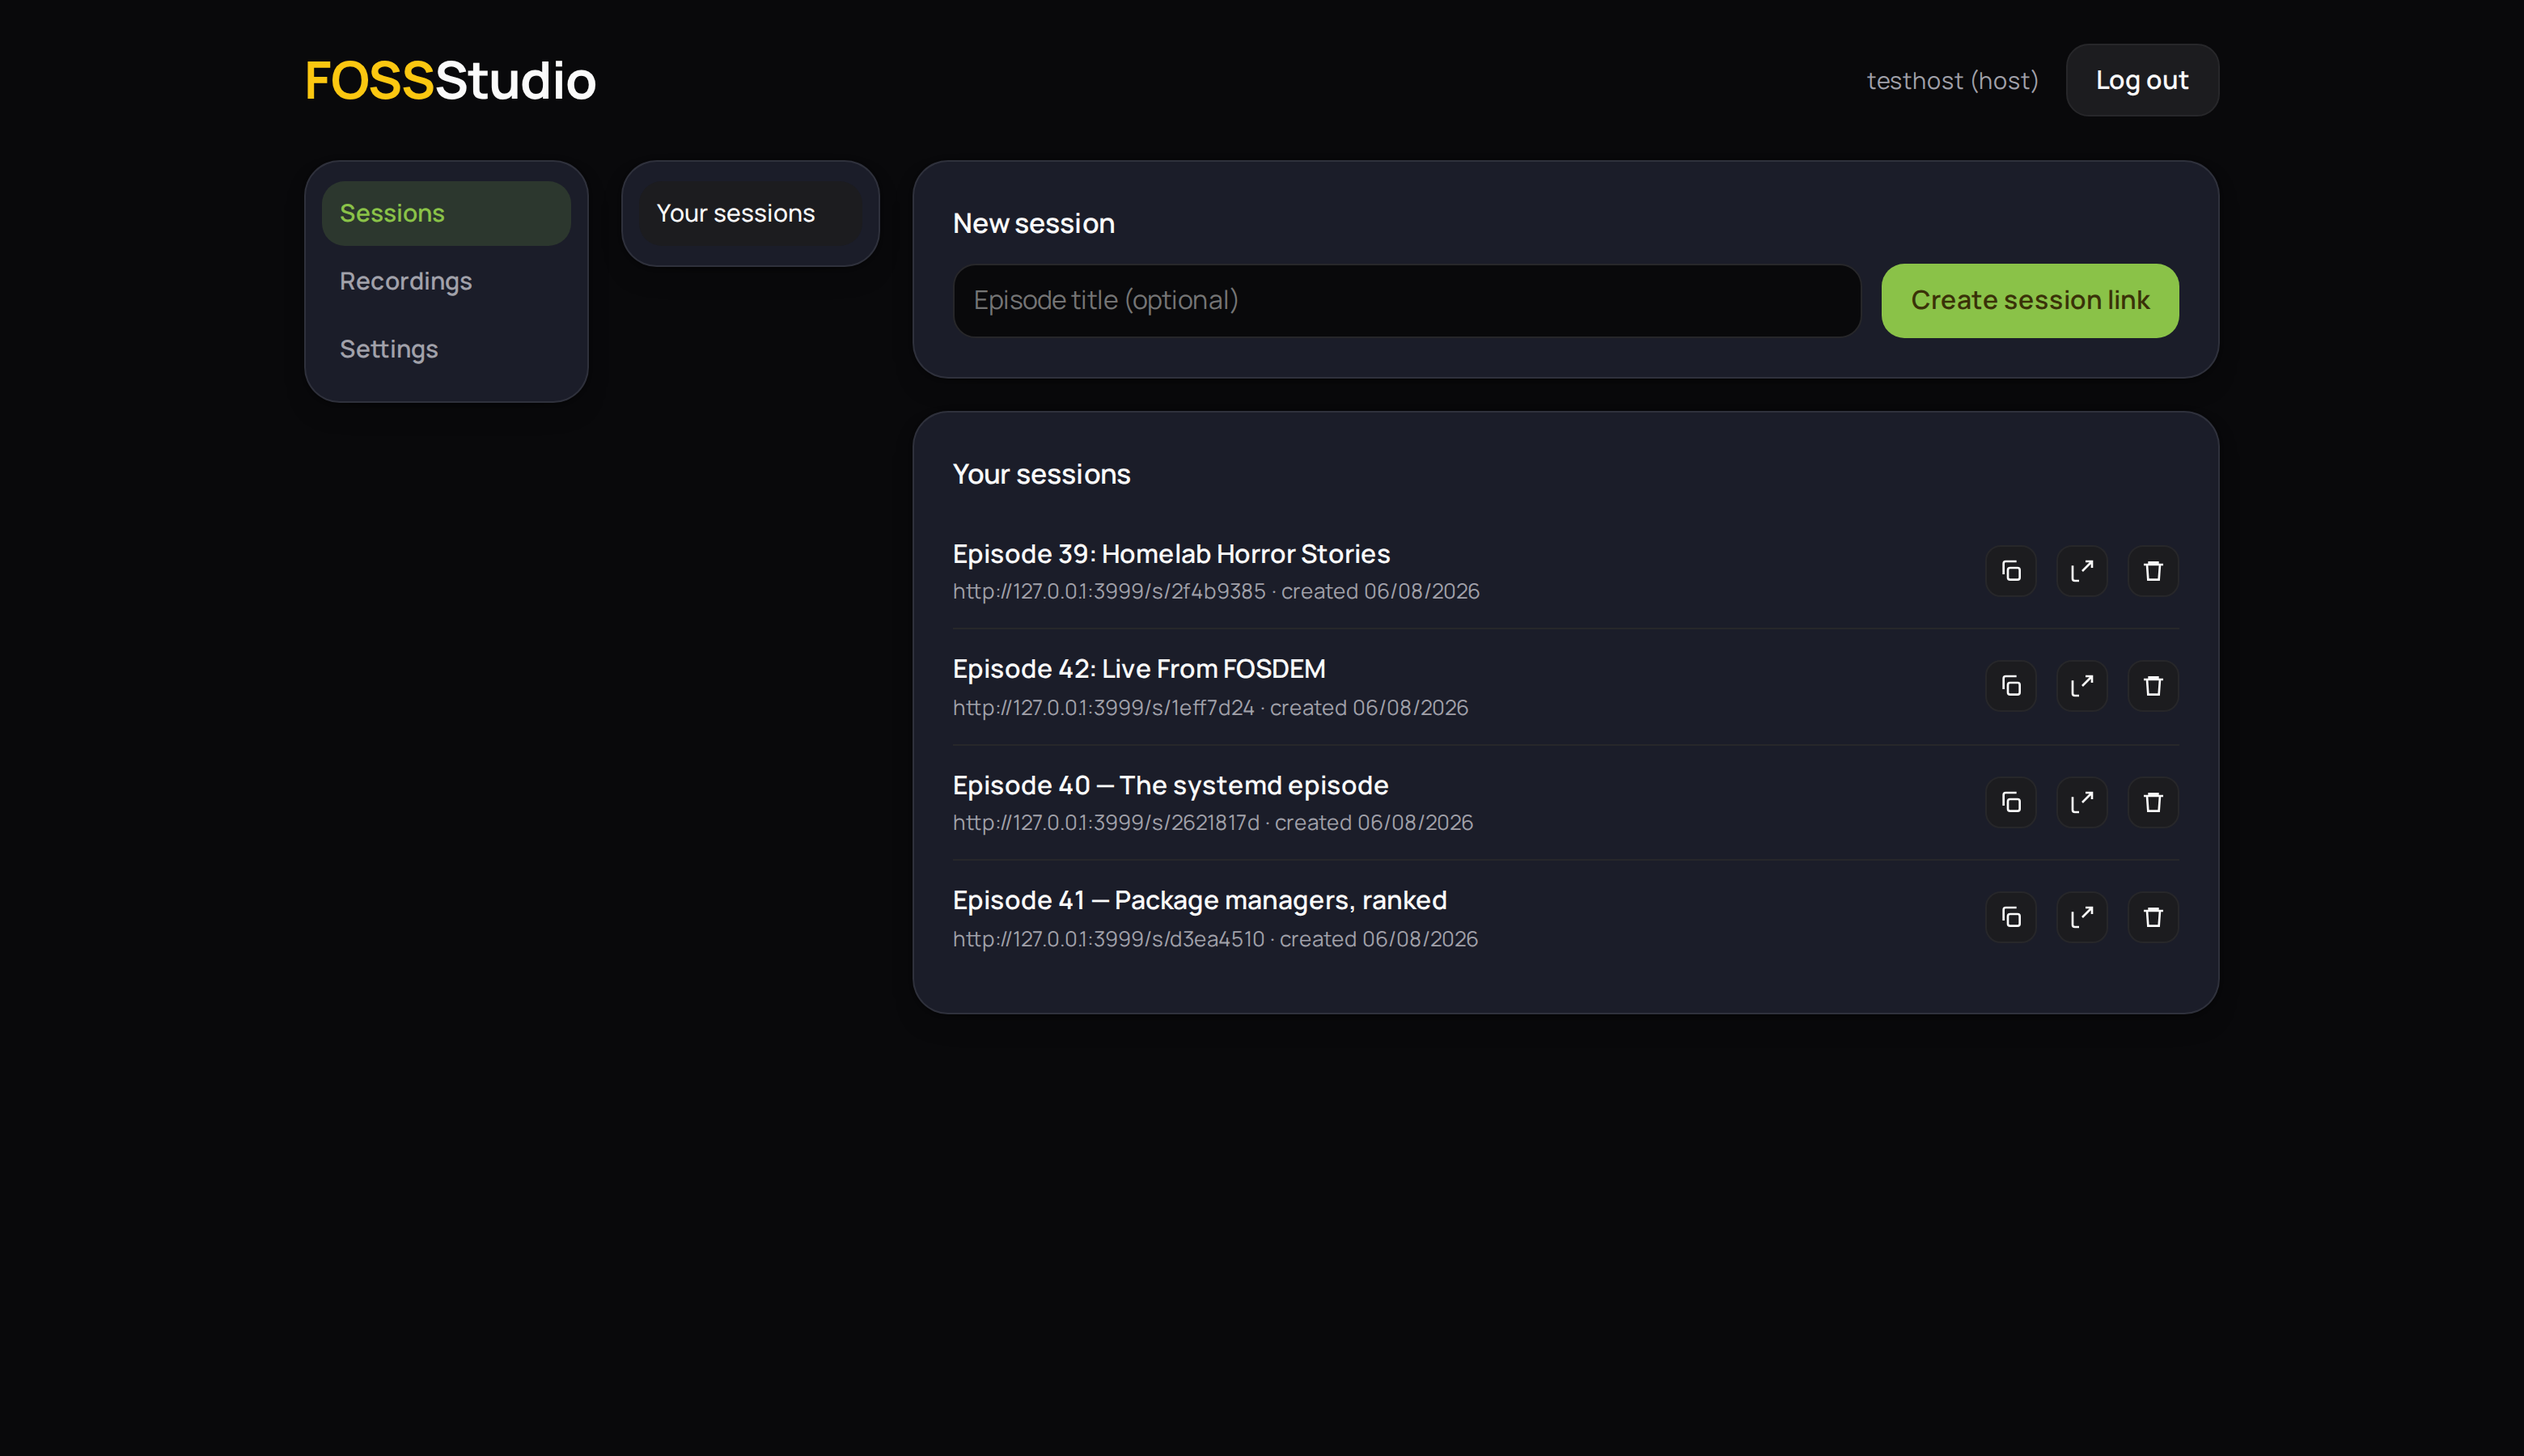
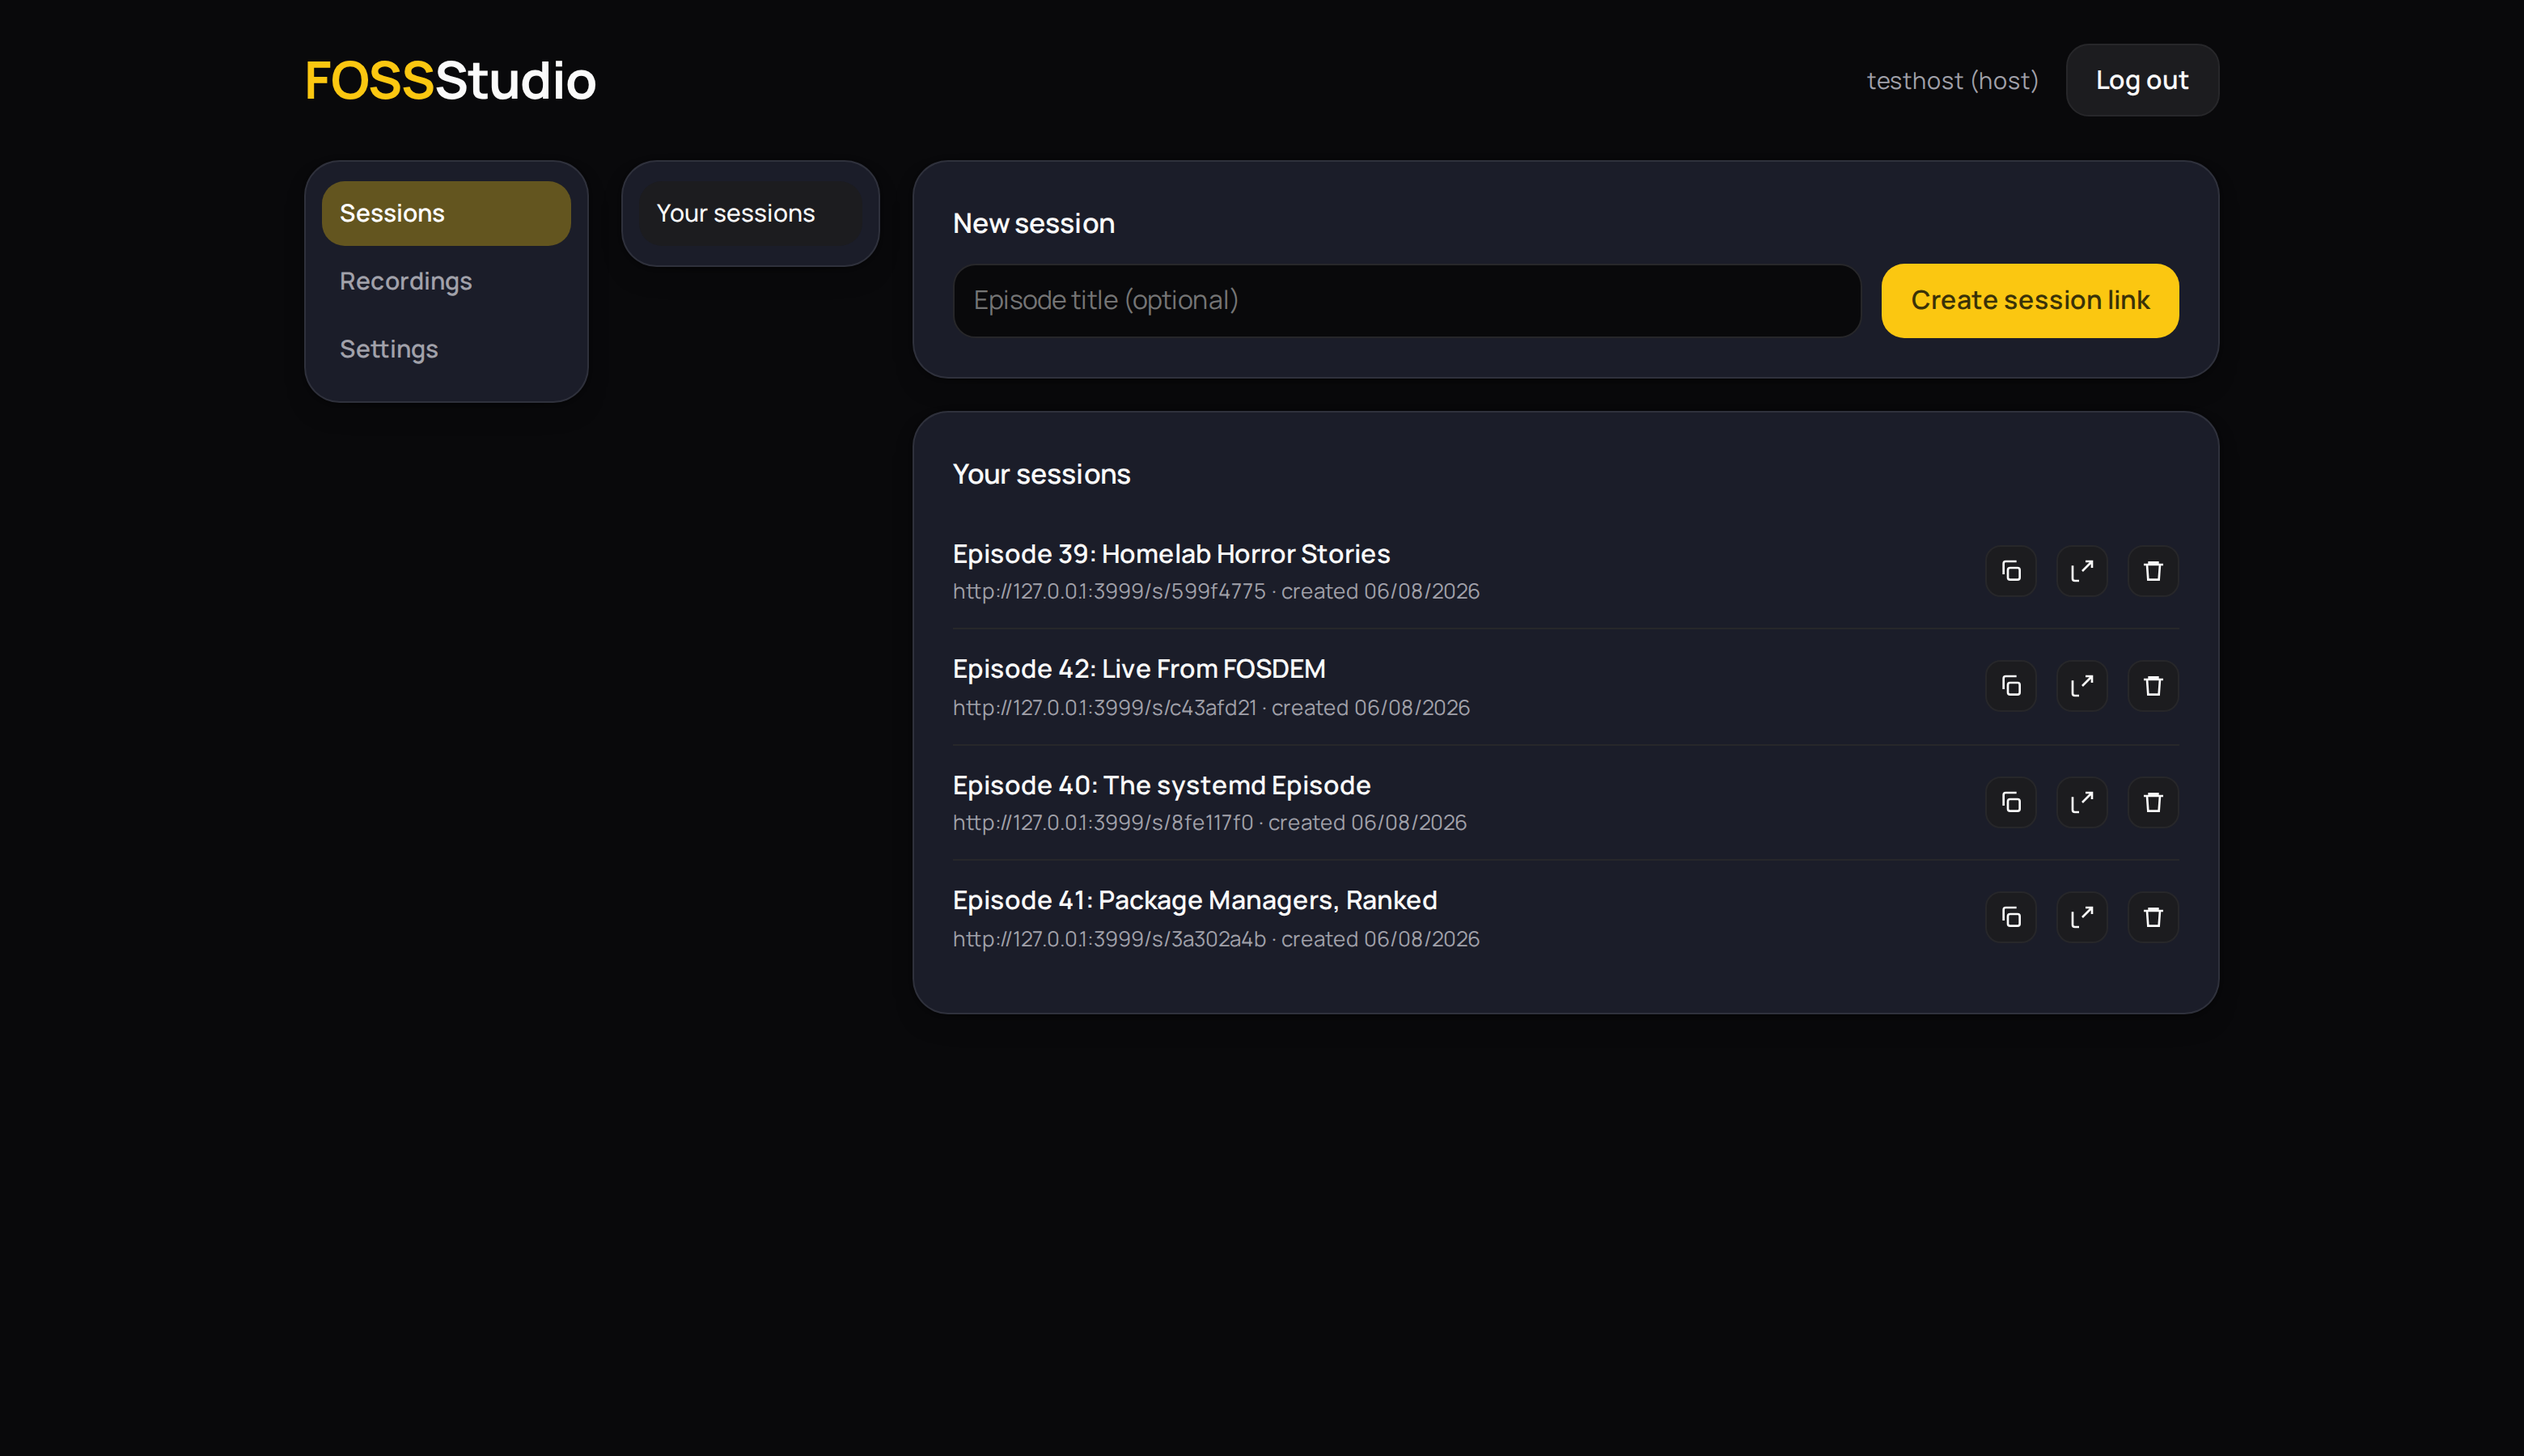
Solid main-menu highlight chip with white text
The active main-menu item used a translucent accent wash with
accent-coloured text, which went muddy for several accents. It is now a
solid chip (accent deepened into brand navy) with white text - readable
for every accent in both themes. Demo session titles in the screenshots
lose their em dashes; screenshots regenerated.

diff --git a/web/host/host.js b/web/host/host.js
@@ -458,10 +458,11 @@
     root.setProperty("--accent-hover", `rgb(${Math.round(r * 0.85)}, ${Math.round(g * 0.85)}, ${Math.round(b * 0.85)})`);
     root.setProperty("--on-accent",
       (0.299 * r + 0.587 * g + 0.114 * b) / 255 > 0.55 ? "#3a3208" : "#ffffff");
-    // Menu highlights use the container pair: a translucent wash of the
-    // accent with the accent itself as text
-    root.setProperty("--accent-container", `rgba(${r}, ${g}, ${b}, 0.16)`);
-    root.setProperty("--on-accent-container", hex);
+    // Menu highlights: a solid chip of the accent deepened into brand
+    // navy, with white text — readable for every accent, both themes
+    const mix = (c, n) => Math.round(c * 0.35 + n * 0.65);
+    root.setProperty("--accent-container", `rgb(${mix(r, 17)}, ${mix(g, 24)}, ${mix(b, 39)})`);
+    root.setProperty("--on-accent-container", "#ffffff");
   }
 
   async function loadSettings() {

diff --git a/web/session.html b/web/session.html
@@ -4,7 +4,7 @@
 <meta charset="utf-8">
 <meta name="viewport" content="width=device-width, initial-scale=1, viewport-fit=cover">
 <title>FOSSStudio session</title>
-<link rel="stylesheet" href="/css/session.css?v=20260806e">
+<link rel="stylesheet" href="/css/session.css?v=20260806f">
 <link rel="manifest" href="/manifest.json">
 <link rel="icon" href="/icons/icon-192.png">
 <meta name="theme-color" content="#14161a">
@@ -98,7 +98,7 @@
   </footer>
 </div>
 
-<script src="/assets/mediasoup-client.js?v=20260806e"></script>
-<script src="/js/session.js?v=20260806e"></script>
+<script src="/assets/mediasoup-client.js?v=20260806f"></script>
+<script src="/js/session.js?v=20260806f"></script>
 </body>
 </html>

diff --git a/web/host/index.html b/web/host/index.html
@@ -4,7 +4,7 @@
 <meta charset="utf-8">
 <meta name="viewport" content="width=device-width, initial-scale=1">
 <title>FOSSStudio — Host</title>
-<link rel="stylesheet" href="/host/host.css?v=20260806e">
+<link rel="stylesheet" href="/host/host.css?v=20260806f">
 <link rel="manifest" href="/manifest.json">
 <link rel="icon" href="/icons/icon-192.png">
 <meta name="theme-color" content="#14161a">
@@ -223,6 +223,6 @@
   </div>
 </div>
 
-<script src="/host/host.js?v=20260806e"></script>
+<script src="/host/host.js?v=20260806f"></script>
 </body>
 </html>

diff --git a/CHANGELOG.md b/CHANGELOG.md
@@ -4,6 +4,9 @@ All notable changes to FOSSStudio are documented here.
 
 ## Unreleased
 
+- Dashboard main-menu highlight is now a solid accent chip with white
+  text (the translucent accent wash made the label hard to read)
+
 - Website: even spacing between the feature blocks (no double-height
   gaps); screenshot taglines shortened so nothing is cut off
 - Session tagline text slightly smaller so realistic taglines fit the
